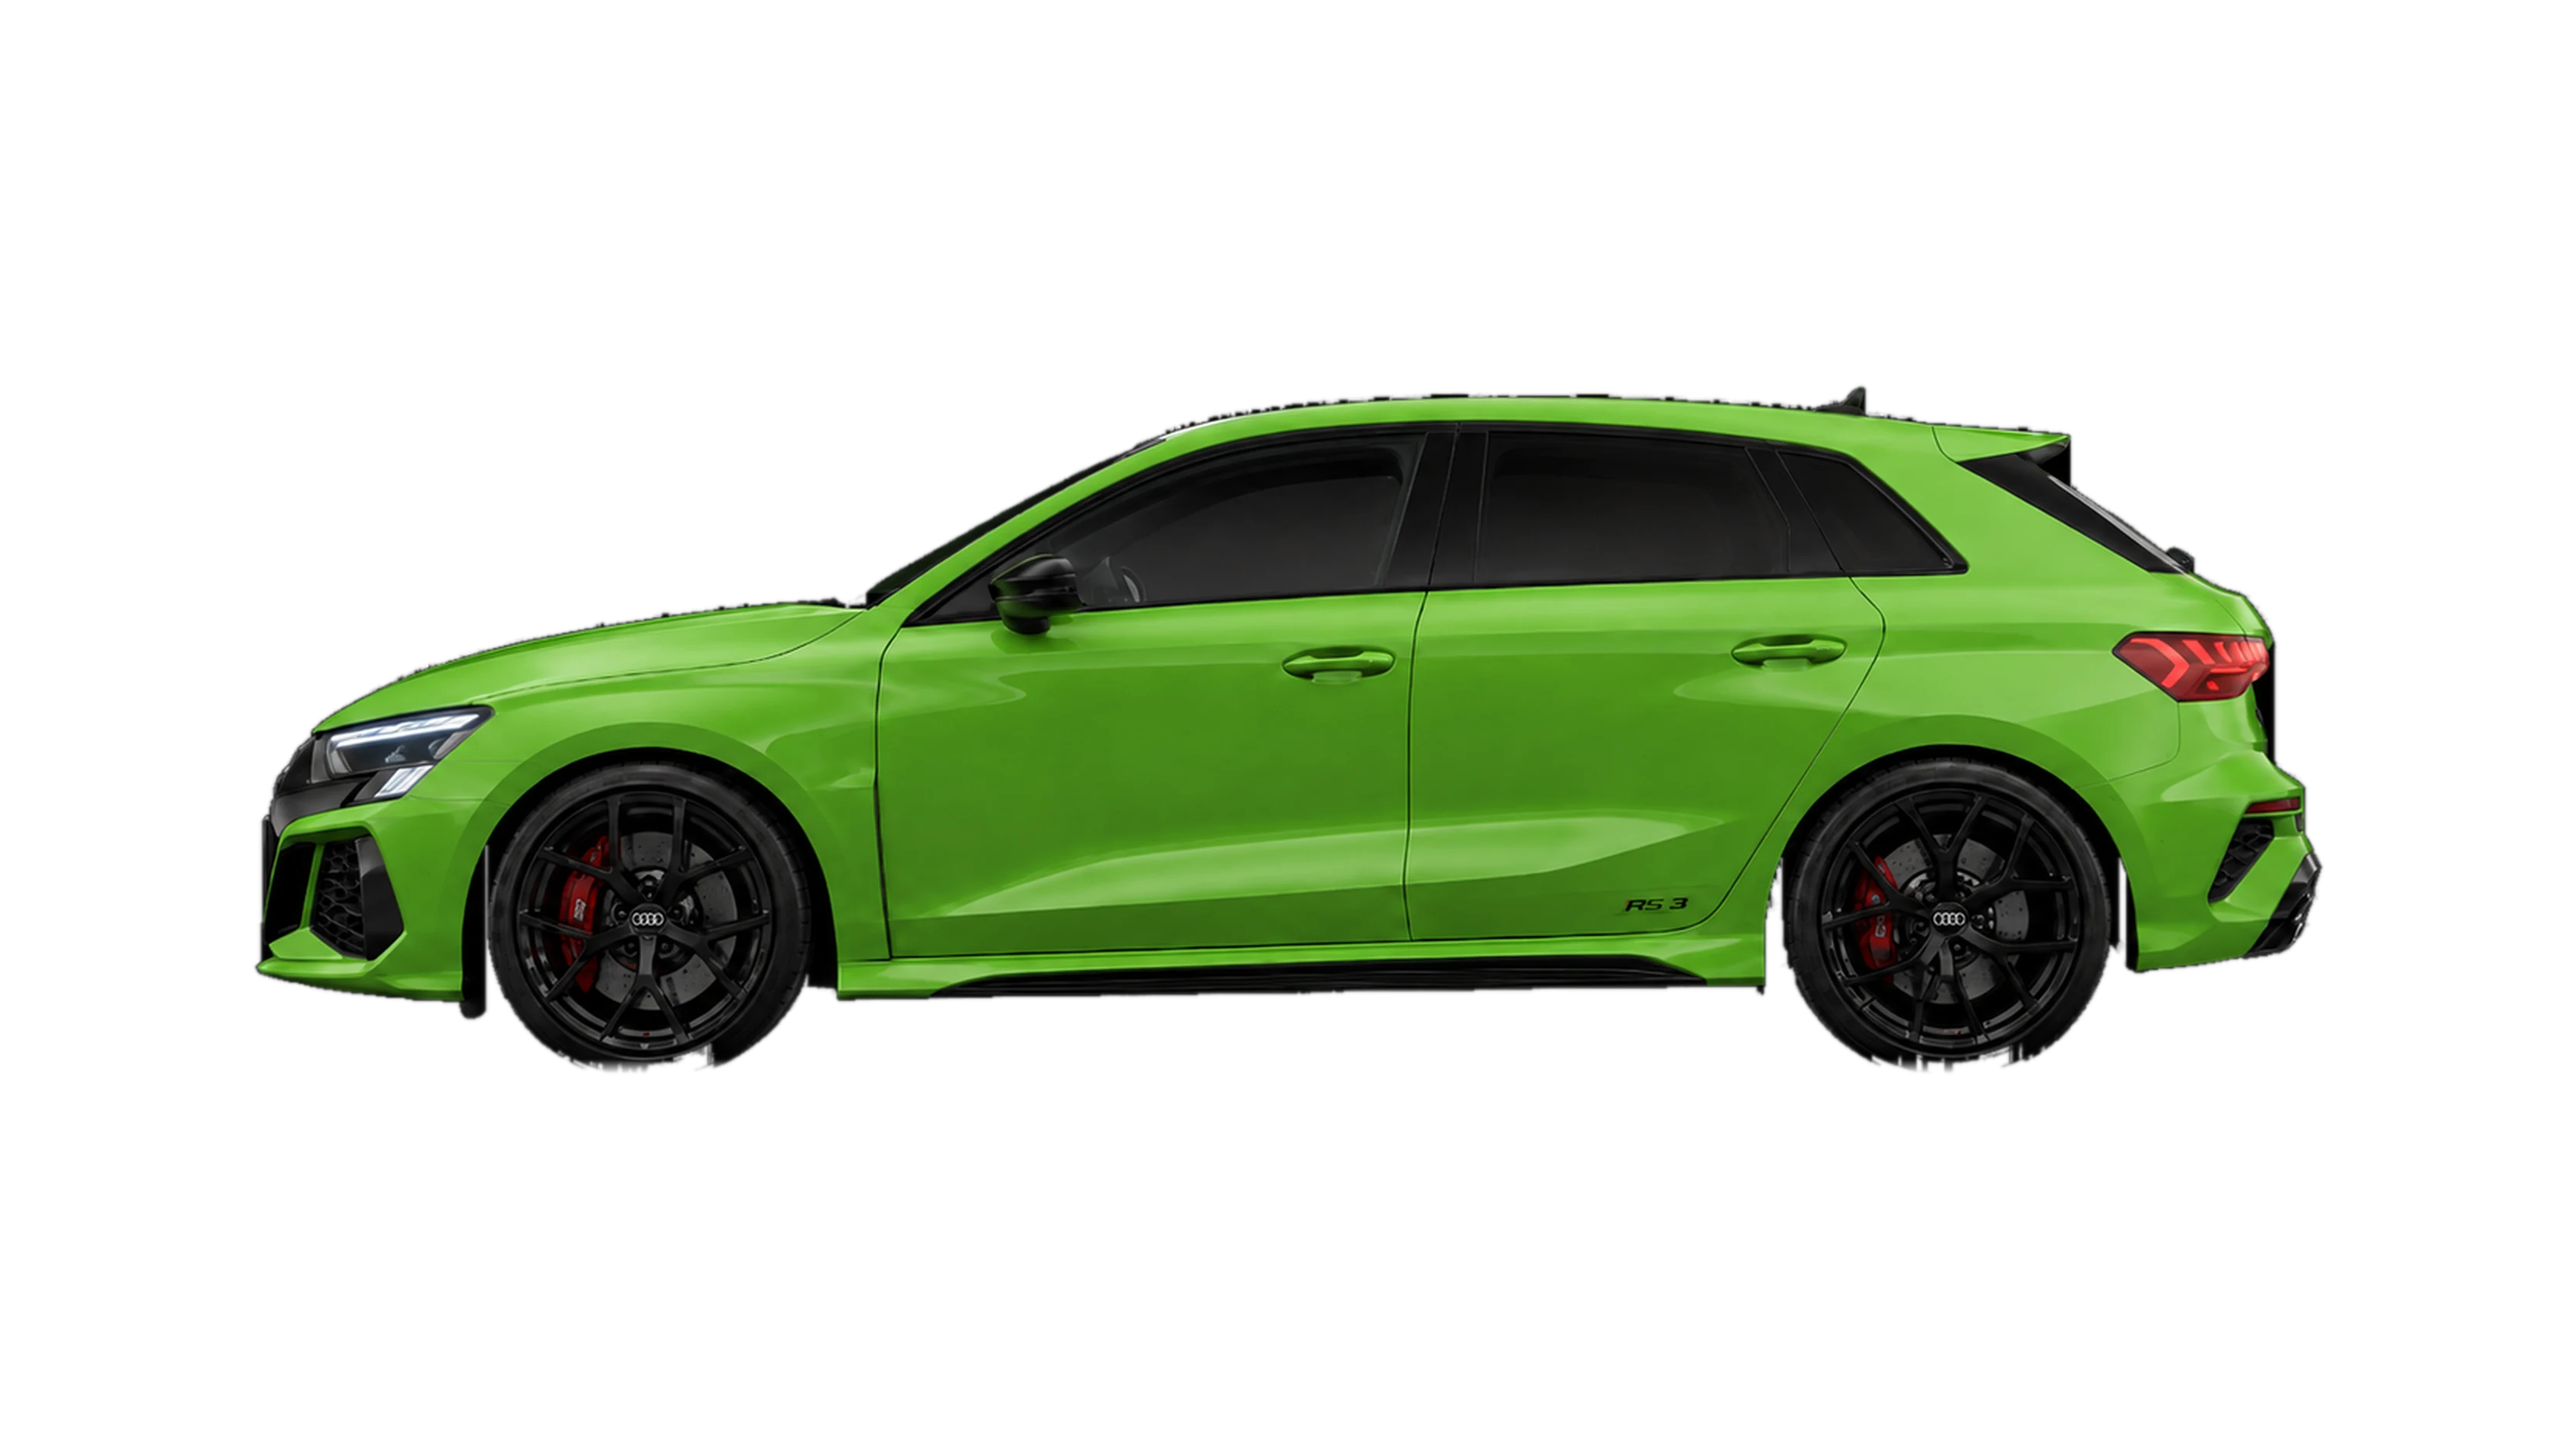
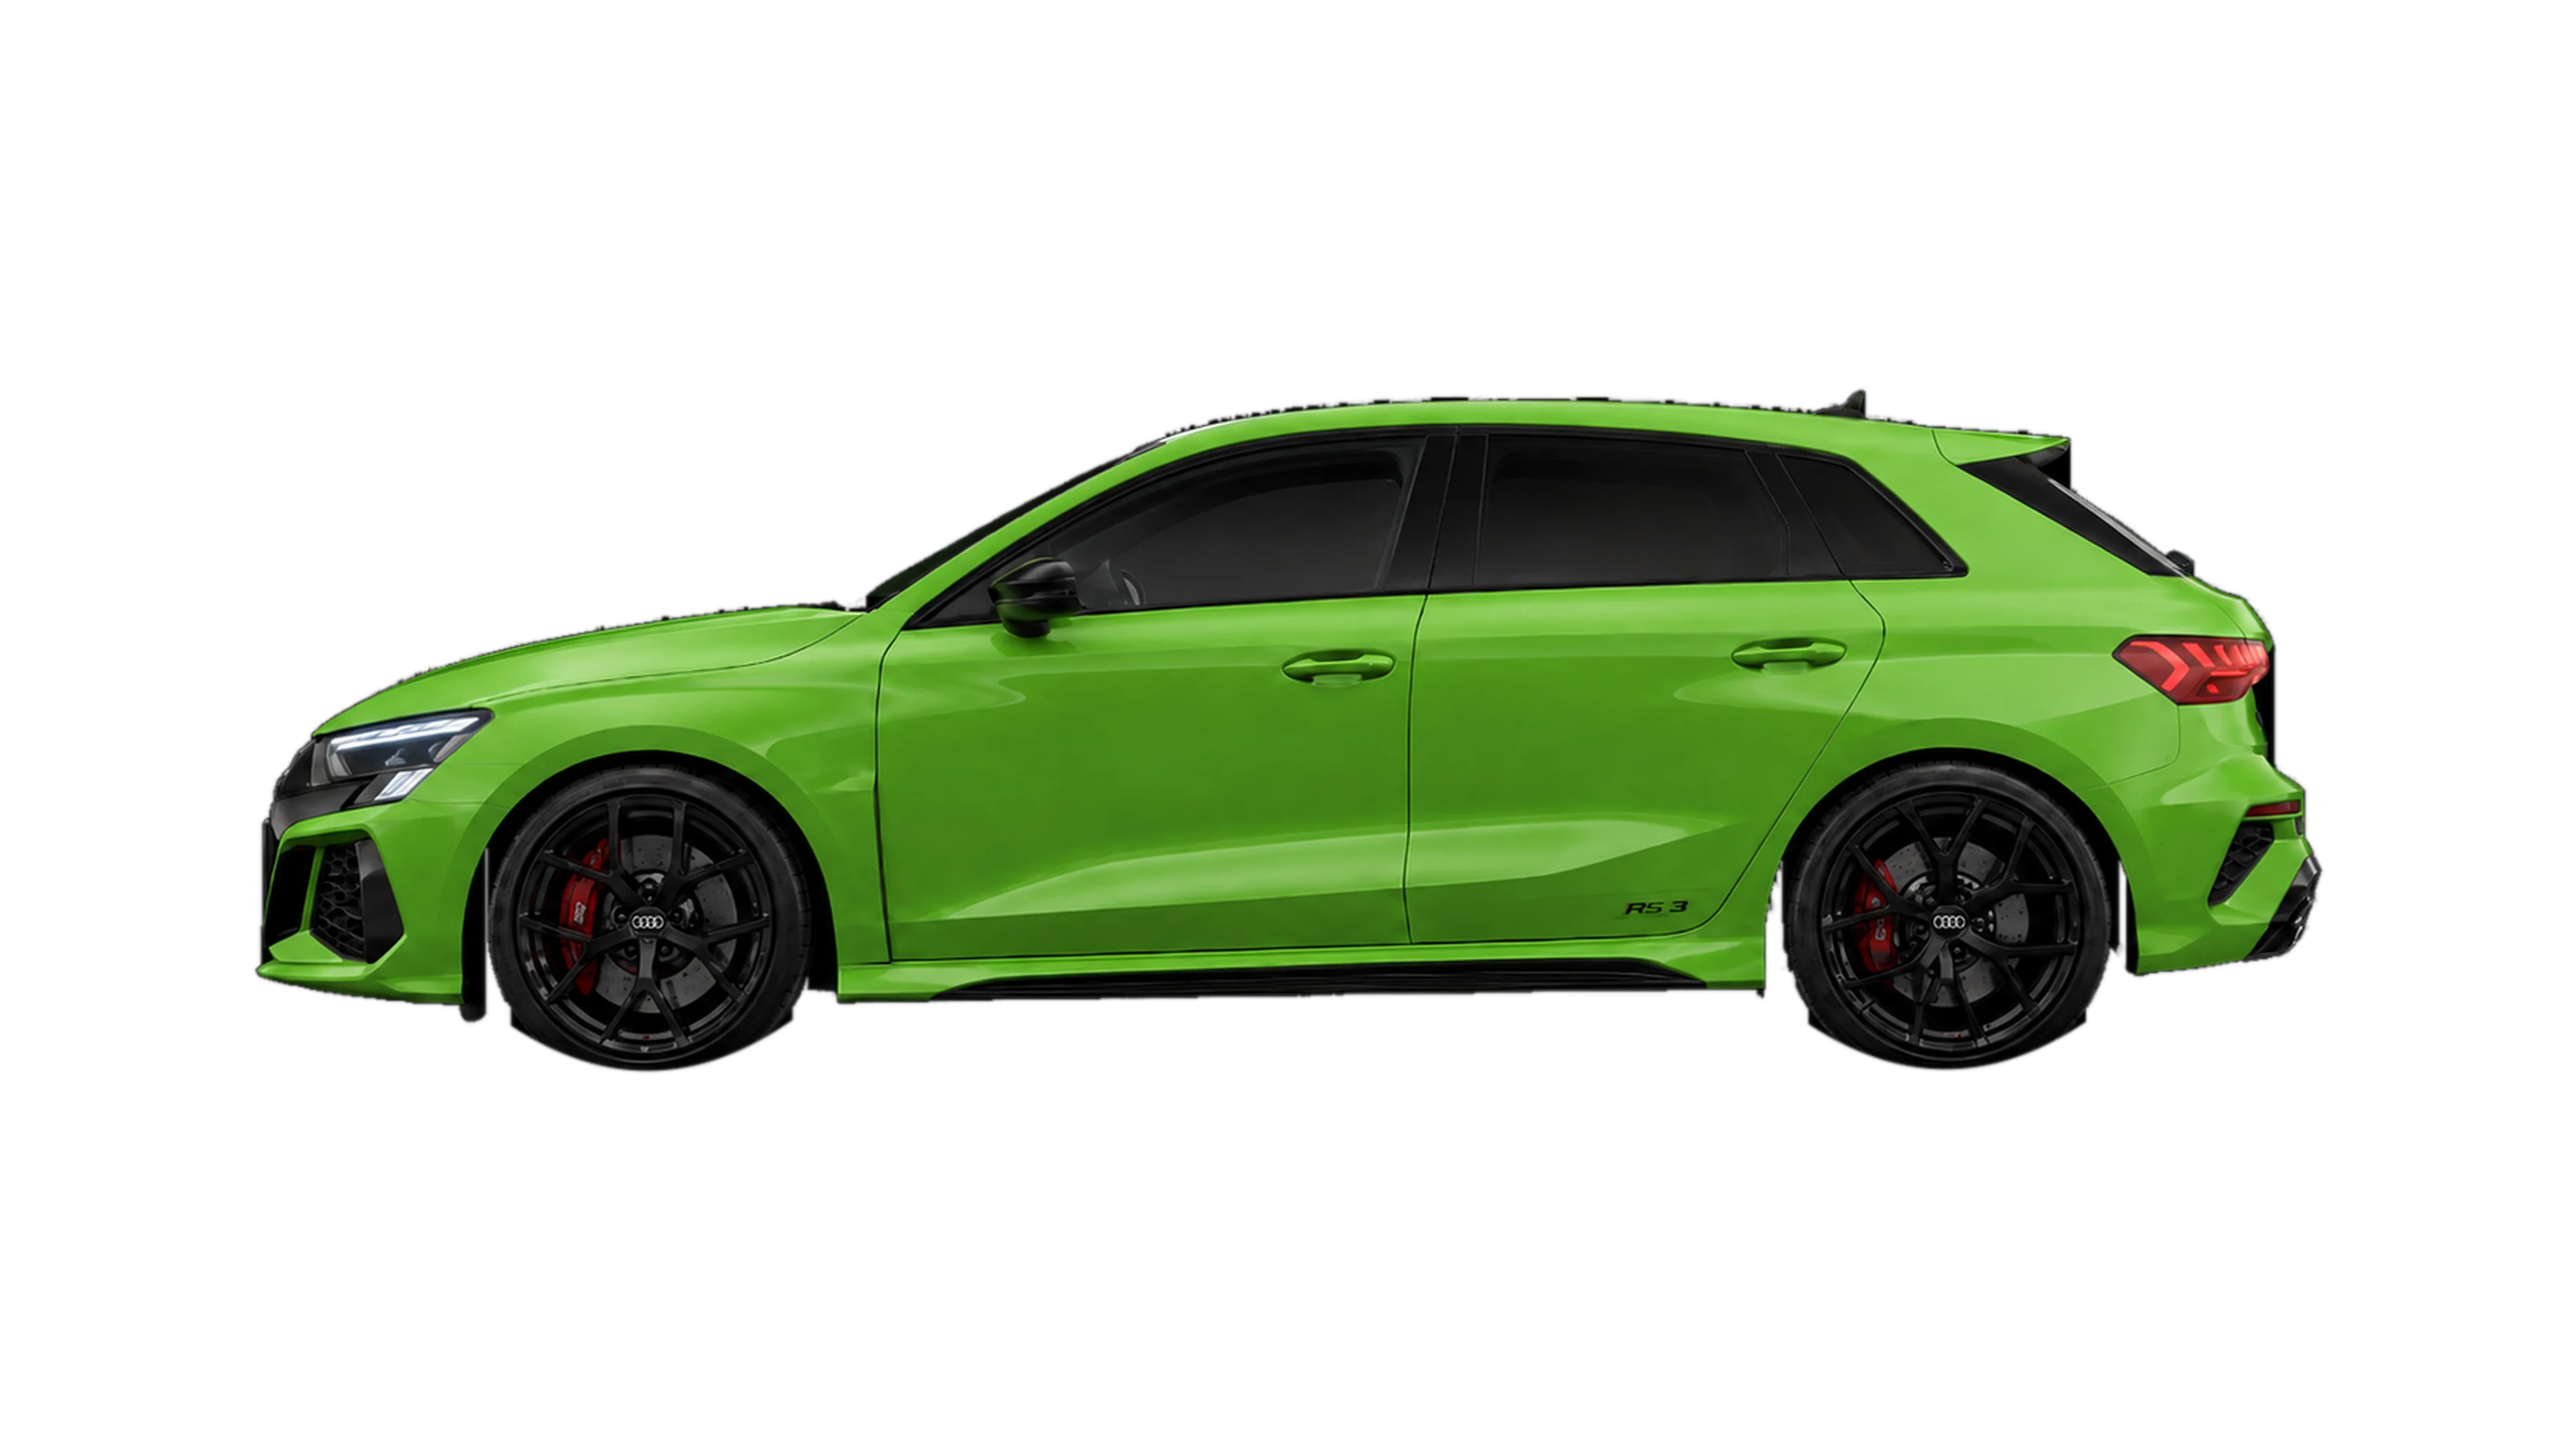
El borde de la goma del RS 3 se reconstruye como el arco que es
Los flecos que colgaban de la rueda salían de la propia foto. Subiendo
la exposición se ve por qué: el neumático de abajo es tan oscuro que
por tramos no se distingue del fondo, así que el borde se corta en el
aire y queda una franja de basura gris con dientes y huecos. La foto no
registró esa goma; no hay umbral que la recupere.

Como una rueda es circular, ahora a cada una se le ajusta una parábola
por mínimos cuadrados sobre su borde inferior, con una segunda pasada
que descarta los puntos que se despegan —los dientes y los huecos, que
si entraran al ajuste torcerían la curva—. El arco manda en los dos
sentidos: lo que sobresale se apaga, lo que falta se completa.

Antes probé suavizar el borde con una mediana y no sirve: un suavizado
deja mesetas y escalones nuevos donde había dientes. Una parábola no
puede tener escalones, y ése es el punto.

Va como lista de una sola foto (BORDE_DENTADO) y no como paso general
porque a las otras cinco, que están aprobadas, les movería el contorno
sin necesidad. Verificado: el build sólo toca los tres archivos del
RS 3.

De paso, la reconstrucción venía fallando en silencio por un error de
indexación —el build seguía dejando los archivos de la corrida
anterior—, que es por qué parecía que los cambios no hacían nada.

diff --git a/public/index.html b/public/index.html
@@ -602,7 +602,7 @@ body{
      guardada la vieja bajo esa misma dirección y la muestra sin volver a
      preguntar. En Cloudflare es peor, porque además hay un CDN cacheando
      en el medio. */
-  const FOTOS = 'e891cfd8';
+  const FOTOS = 'b886024c';
 
   const imgs = CARS.map((c,i)=>{
     const el = document.createElement('img');

diff --git a/tools/build-cars.py b/tools/build-cars.py
@@ -84,6 +84,28 @@ BANDA = 40
 FADE = 10
 APOYO = 4
 
+# Fotos cuyo borde inferior de la goma viene dentado y hay que
+# reconstruirlo.
+#
+# En la mayoría de las fotos el neumático termina en un arco parejo: el
+# alfa baja macizo y se apaga con un degradé suave. En la del RS 3 el
+# alfa sólido corta 12 px antes de tiempo y debajo queda una franja de
+# basura gris con dientes y picos — colgando de la goma como flecos, que
+# es exactamente lo que se ve mal en pantalla.
+#
+# No es algo que se pueda arreglar con umbrales: la basura tiene el
+# mismo gris que la goma. Se arregla reconociendo que una rueda no tiene
+# dientes, y reconstruyendo el borde como la curva suave que es.
+#
+# Va como lista y no como comportamiento general porque a las otras
+# cinco fotos, que ya están aprobadas, este paso les movería el contorno
+# sin que haga falta.
+BORDE_DENTADO = {"audi-rs3"}
+
+# Columnas mínimas para considerar que un grupo es una rueda y no un
+# resto suelto de la foto.
+RUEDA_MIN = 25
+
 # Fotos que no se vuelven a generar: manda el archivo ya publicado.
 #
 # La Mercedes está acá por pedido explícito. Vale saber qué se congela:
@@ -110,7 +132,61 @@ ESCALA = 0.3054270976
 SIZES = [(3344, "@2x", 88), (1672, "", 94), (1100, "@sm", 88)]
 
 
-def cutout(path):
+def reconstruir_borde(alpha, piso):
+    """Deja el borde inferior de la goma como el arco que es.
+
+    Se localizan las ruedas —grupos de columnas cuyo alfa sólido llega a
+    la zona de contacto— y a cada una se le ajusta una parábola por
+    mínimos cuadrados sobre su borde inferior. Esa parábola es el
+    límite: lo que cuelgue por debajo se apaga.
+
+    Tiene que ser una parábola y no un promedio o una mediana. Un
+    suavizado deja mesetas y saltos —escalones nuevos donde había
+    dientes—, y una rueda no tiene ni una cosa ni la otra: tiene un
+    arco. Ajustando la curva que de verdad describe el borde, el
+    resultado no puede tener escalones.
+
+    El arco manda en los dos sentidos: lo que sobresale se apaga y lo
+    que falta se completa. Hace falta completar porque en esta foto la
+    goma no sólo tiene dientes, tiene huecos — el neumático es tan
+    oscuro que por tramos no se distingue del fondo y el borde se corta
+    en el aire. La goma está, la foto no la registró; el arco es la
+    mejor reconstrucción de por dónde pasaba.
+    """
+    solido = alpha > 0.55
+    h, w = alpha.shape
+    fondo = np.where(solido.any(0), h - 1 - np.argmax(solido[::-1], 0), -1)
+
+    lab, n = ndimage.label(fondo > piso - BANDA)
+    y = np.arange(h)[:, None]
+    out = alpha.copy()
+
+    for i in range(1, n + 1):
+        cols = np.where(lab == i)[0]
+        if cols.size < RUEDA_MIN:
+            continue
+        xs = cols.astype(float) - cols.mean()
+        ys = fondo[cols].astype(float)
+        coef = np.polyfit(xs, ys, 2)
+        # segunda pasada ignorando los puntos que se despegan del arco,
+        # que son justamente los dientes y los huecos que hay que
+        # corregir: si entraran al ajuste, torcerían la curva
+        resid = ys - np.polyval(coef, xs)
+        ok = np.abs(resid) <= max(2.0, 2.0 * resid.std())
+        if ok.sum() > RUEDA_MIN:
+            coef = np.polyfit(xs[ok], ys[ok], 2)
+
+        borde = np.polyval(coef, xs)[None, :]      # (1, columnas)
+        # opaco hasta el arco, con un pixel de transición para que el
+        # remate no quede cortado con tijera
+        hasta_el_arco = np.clip(borde + 1 - y, 0, 1)
+        sub = alpha[:, cols]
+        out[:, cols] = np.where(y > piso - BANDA, hasta_el_arco, sub)
+
+    return out
+
+
+def cutout(path, dentado=False):
     """Devuelve (rgb, alpha) del auto recortado sobre su lienzo original."""
     im = Image.open(path).convert("RGB")
     rgb = np.asarray(im).astype(np.float32)
@@ -163,6 +239,9 @@ def cutout(path):
     fade = np.clip((piso + FADE - y) / float(FADE), 0, 1)
     alpha = np.where(y > piso, alpha * fade, alpha)
 
+    if dentado:
+        alpha = reconstruir_borde(alpha, piso)
+
     return rgb, alpha
 
 
@@ -183,7 +262,7 @@ def main():
     # --- pasada 1: medir, para saber a qué escala llevar a todos ---
     cars = {}
     for s in slugs:
-        rgb, alpha = cutout(f"{SRC}/{s}.png")
+        rgb, alpha = cutout(f"{SRC}/{s}.png", s in BORDE_DENTADO)
         x0, x1, _, _ = bounds(alpha)
         # px por mm, normalizado al ancho del lienzo de salida
         cars[s] = (rgb, alpha, (x1 - x0) / rgb.shape[1] * CANVAS[0] / REAL[s])
@@ -209,9 +288,18 @@ def main():
         # contra la cola tenue del alfa, y queda APOYO px por encima de
         # la línea: la línea va exactamente debajo de la goma, nunca
         # encima de ella.
-        _, _, _, y1 = bounds(a, 0.55)
+        #
+        # Con el borde reconstruido no hay cola que descartar: el último
+        # píxel ES el remate de la goma, así que se mide contra él y
+        # basta un pelo de aire para que la línea pase por debajo.
+        if s in BORDE_DENTADO:
+            _, _, _, y1 = bounds(a, 0.06)
+            margen = 1
+        else:
+            _, _, _, y1 = bounds(a, 0.55)
+            margen = APOYO
         dx = round(CENTER * W - (x0 + x1) / 2)
-        dy = round(GROUND * H - y1) - APOYO
+        dy = round(GROUND * H - y1) - margen
 
         canvas = Image.new("RGBA", (W, H), (0, 0, 0, 0))
         canvas.paste(scaled, (dx, dy))
